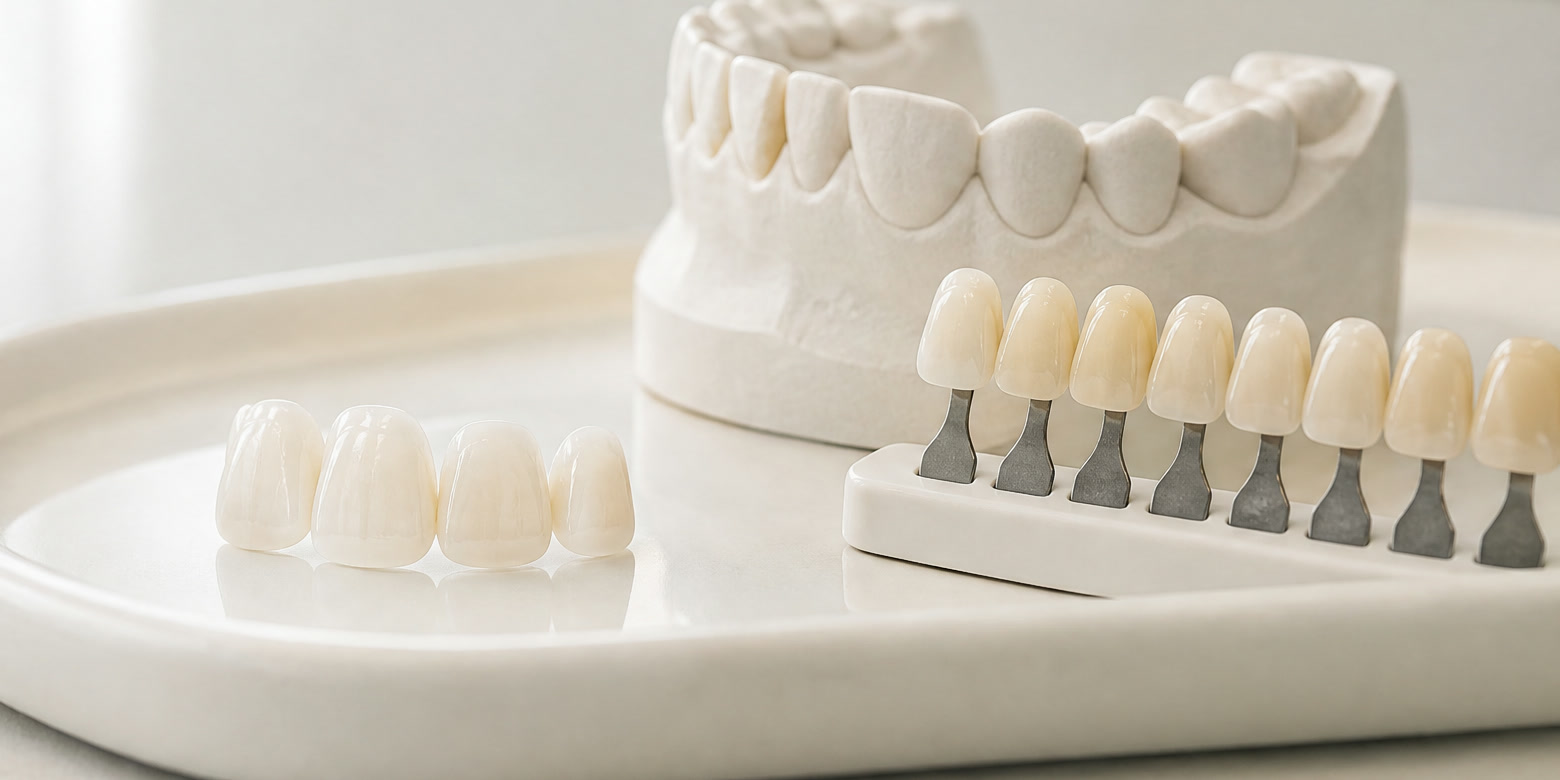
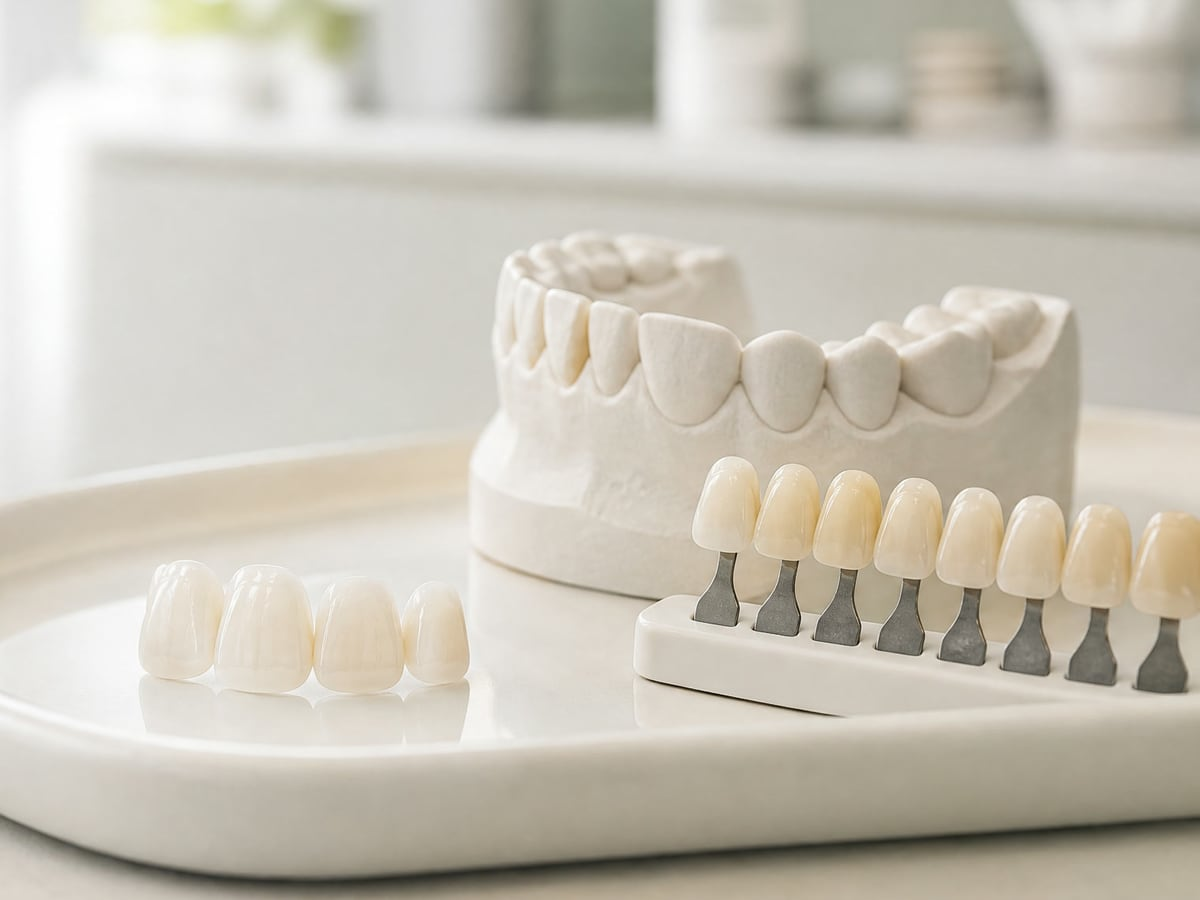
Service cards: new 4:3 crops centred on each subject

diff --git a/astro/src/lib/data.ts b/astro/src/lib/data.ts
@@ -34,7 +34,7 @@ import heroBridges from "../assets/practice/heroes/bridges-hero.jpg";
 import heroBridgesMobile from "../assets/practice/heroes/bridges-hero-mobile.jpg";
 import heroCosmetic from "../assets/practice/heroes/cosmetic-dentistry-hero.jpg";
 import heroCosmeticMobile from "../assets/practice/heroes/cosmetic-dentistry-hero-mobile.jpg";
-// Service-card crops (the earlier, subject-centred versions) for the 4:3 cards on the homepage and Services page.
+// 4:3 service-card crops, centred on each subject, for the cards on the homepage and Services page.
 import cardCosmetic from "../assets/practice/heroes/cosmetic-dentistry-card.jpg";
 import cardOrthodontics from "../assets/practice/heroes/orthodontics-card.jpg";
 import cardImplants from "../assets/practice/heroes/dental-implants-card.jpg";
